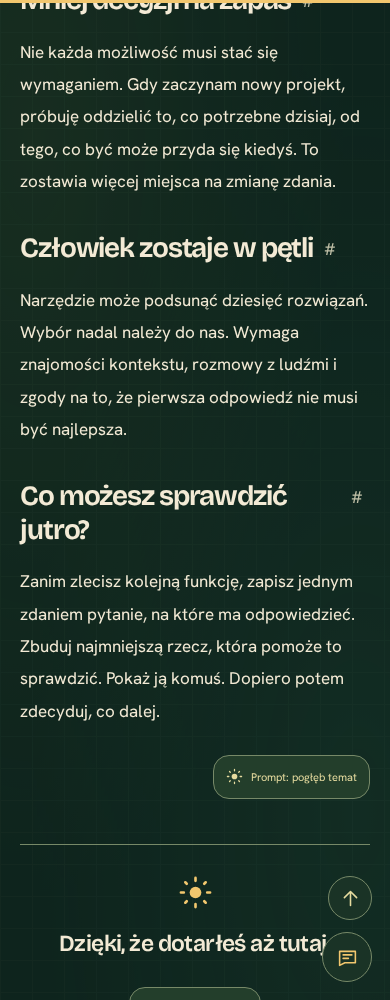
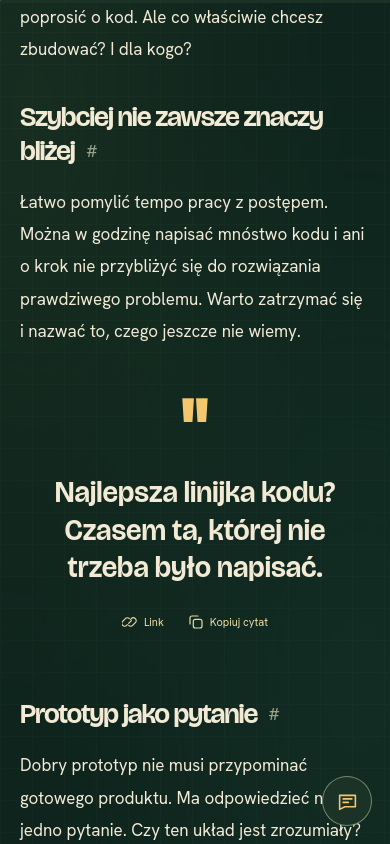
fix: keep a centered muted hash with the last heading word
Implement selected heading prototype A in static article HTML. Preserve inline formatting, existing links and table-of-contents labels while grouping the final word with its permalink. Verify native fragments and responsive alignment in Chromium and WebKit.

Changed region(s): [[0.0, 0.0, 1.0, 0.8009], [0.0308, 0.8318, 0.9538, 1.0], [0.8923, 0.4929, 0.9231, 0.5237]]

diff --git a/src/lib/article-fragments.ts b/src/lib/article-fragments.ts
@@ -1,8 +1,40 @@
-import type { SatteriProcessorOptions } from "@astrojs/markdown-satteri";
+import type {
+  SatteriProcessorOptions,
+  satteriCollectHastText,
+} from "@astrojs/markdown-satteri";
 type Plugin = Extract<
   NonNullable<SatteriProcessorOptions["hastPlugins"]>[number],
   { name: string }
 >;
+type HeadingChild = Extract<
+  Parameters<typeof satteriCollectHastText>[0],
+  { type: "element" }
+>["children"][number];
+
+/** Split at a text offset without discarding emphasis, code or existing links. */
+function splitHeading(
+  children: readonly HeadingChild[],
+  offset: number,
+  textContent: (node: HeadingChild) => string,
+): [HeadingChild[], HeadingChild[]] {
+  const before: HeadingChild[] = [];
+  const after: HeadingChild[] = [];
+  for (const child of children) {
+    const length = textContent(child).length;
+    if (offset <= 0) after.push(child);
+    else if (offset >= length) before.push(child);
+    else if (child.type === "text") {
+      before.push({ ...child, value: child.value.slice(0, offset) });
+      after.push({ ...child, value: child.value.slice(offset) });
+    } else if ("children" in child) {
+      const [start, end] = splitHeading(child.children, offset, textContent);
+      before.push({ ...child, children: start });
+      after.push({ ...child, children: end });
+    }
+    offset -= length;
+  }
+  return [before, after];
+}
 
 /** Per-document state: an unrelated edit or reordering does not change quote IDs. */
 export function articleFragments(): Plugin {
@@ -31,9 +63,15 @@ export function articleFragments(): Plugin {
         }
         const id = node.properties.id;
         if (typeof id !== "string") return;
-        ctx.setProperty(node, "data-article-heading", true);
+        const lastWord = ctx.textContent(node).match(/\S+\s*$/);
+        if (!lastWord) return;
+        const [before, tail] = splitHeading(
+          node.children,
+          lastWord.index!,
+          (child) => ctx.textContent(child),
+        );
         // CSS supplies the decorative # so it does not enter the table of contents.
-        ctx.appendChild(node, {
+        const link: HeadingChild = {
           type: "element",
           tagName: "a",
           properties: {
@@ -42,7 +80,20 @@ export function articleFragments(): Plugin {
             "aria-label": en ? "Link to this section" : "Link do tej sekcji",
           },
           children: [],
-        });
+        };
+        return {
+          ...node,
+          properties: { ...node.properties, "data-article-heading": true },
+          children: [
+            ...before,
+            {
+              type: "element",
+              tagName: "span",
+              properties: { className: ["heading-tail"] },
+              children: [...tail, link],
+            },
+          ],
+        };
       },
     },
   };

diff --git a/tests/article-fragments.test.ts b/tests/article-fragments.test.ts
@@ -52,3 +52,45 @@ test("heading links preserve generated slugs and clean table-of-contents labels"
     3,
   );
 });
+
+test("heading permalinks stay with the final word and preserve inline formatting", async () => {
+  const result = await render(
+    [
+      "## Najpierw dobre pytanie",
+      "## Projekt *na próbę*",
+      "## Jak działa `AbortController`?",
+      "## A [linked heading](https://example.com)",
+      "## Pro**gramowanie**!",
+      "## Jednowyrazowy",
+    ].join("\n\n"),
+  );
+  assert.match(result.code, /<span class="heading-tail">pytanie<a /);
+  assert.match(
+    result.code,
+    /<em>na <\/em><span class="heading-tail"><em>próbę<\/em><a /,
+  );
+  assert.match(
+    result.code,
+    /<span class="heading-tail"><code>AbortController<\/code>\?<a /,
+  );
+  assert.match(
+    result.code,
+    /<span class="heading-tail"><a href="https:\/\/example.com">heading<\/a><a /,
+  );
+  assert.match(
+    result.code,
+    /<span class="heading-tail">Pro<strong>gramowanie<\/strong>!<a /,
+  );
+  assert.match(result.code, /<span class="heading-tail">Jednowyrazowy<a /);
+  assert.deepEqual(
+    result.metadata.headings.map((heading) => heading.text),
+    [
+      "Najpierw dobre pytanie",
+      "Projekt na próbę",
+      "Jak działa AbortController?",
+      "A linked heading",
+      "Programowanie!",
+      "Jednowyrazowy",
+    ],
+  );
+});

diff --git a/src/styles/site.css b/src/styles/site.css
@@ -1966,30 +1966,32 @@ html:not(.js) .js-only {
   scroll-margin-top: 0;
 }
 .prose [data-article-heading] {
-  position: relative;
-  width: fit-content;
-  max-width: 100%;
-  padding-inline-end: 30px;
   cursor: pointer;
 }
+.prose .heading-tail {
+  display: inline-flex;
+  align-items: center;
+  white-space: nowrap;
+  vertical-align: baseline;
+}
 .prose .heading-permalink {
-  position: absolute;
-  inset-inline-end: 0;
-  inset-block-start: 0;
-  display: flex;
+  display: inline-flex;
+  flex: none;
   align-items: center;
   justify-content: center;
-  width: 28px;
-  height: 1.2em;
-  height: 1lh;
-  color: var(--muted);
+  width: 26px;
+  height: 1.15em;
+  margin-inline-start: 4px;
+  color: #98a28b;
   text-decoration: none;
   font-family: var(--font);
   font-weight: 500;
+  letter-spacing: 0;
 }
 .heading-permalink::after {
   content: "#";
   font-size: 0.6em;
+  line-height: 1;
 }
 .prose .heading-permalink:hover {
   color: var(--accent);

diff --git a/docs/heading-links-study.md b/docs/heading-links-study.md
@@ -1,6 +1,6 @@
 # Porównanie odnośników przy nagłówkach
 
-Użytkownik poprosił o prototypy, ponieważ hash przypięty do końca pierwszego wiersza wygląda na oderwany od tekstu. Rozważamy symbol związany z ostatnim słowem oraz ikonę linku przed nagłówkiem. Wybór pozostaje otwarty; zwykła implementacja nie została zmieniona.
+Użytkownik poprosił o prototypy, ponieważ hash przypięty do końca pierwszego wiersza wygląda na oderwany od tekstu. Rozważamy symbol związany z ostatnim słowem oraz ikonę linku przed nagłówkiem. Użytkownik wybrał **A: Hash przy ostatnim słowie**, z wycentrowaniem symbolu w pionie i lekko przygaszonym kolorem. Wybór wdrożono w zwykłym podglądzie na porcie 4322.
 
 Źródło pierwotne eksperymentu: gałąź **`codex/heading-links-study`**, commit **`4f65f6d`**. Zawiera komponent, CSS, skrypt, pełny opis i cztery zrzuty w `docs/previews/heading-study/`. Właściwa gałąź ma tylko ten wskaźnik, bez kodu próbnika.
 
@@ -16,3 +16,7 @@ Dolny pasek i strzałki klawiatury zmieniają wariant. URL zachowuje wybór i fr
 Worktree `/tmp/kolodziejczak-heading-study`, jednostka `kolodziejczak-heading-preview.service`, wyłącznie Tailscale `100.113.202.72:4326`. Odtworzenie z gałęzi: `npm ci`, `npm run prototype:headings`; build statyczny z `PROTOTYPE_HEADINGS=1 npm run build`. Bez flagi próbnik nie jest renderowany. Wybrane rozwiązanie należy później przepisać do generatora HTML i CSS; obecne warianty zmieniają nagłówki w przeglądarce.
 
 Weryfikacja eksperymentu: build 12 stron, TypeScript, Chromium PL/EN × cztery warianty × 320/390/844/1440 px, bez przewijania poziomego i błędów JS. Sprawdzono grupowanie słowa z symbolem, linki do sekcji, przeładowanie z fragmentem, przyciski i klawiaturę. Zwykły build bez flagi nie zawiera próbnika w HTML. To kontrola działania prototypu, nie ostateczna implementacja wybranego wariantu.
+
+## Wdrożony wariant A
+
+Rozwiązanie przepisano do generatora statycznego HTML i CSS, bez kodu próbnika. Hash jest w jednej niełamanej grupie z ostatnim słowem, wycentrowany przez inline-flex i przygaszony do `#98a28b`. Zachowano dotychczasowe fragmenty, dostępne etykiety, klawiaturę i formatowanie. Wdrożenie działa też bez JavaScript. [Szczegóły i weryfikacja](article-fragments.md#pozycja-znaku-linku).
